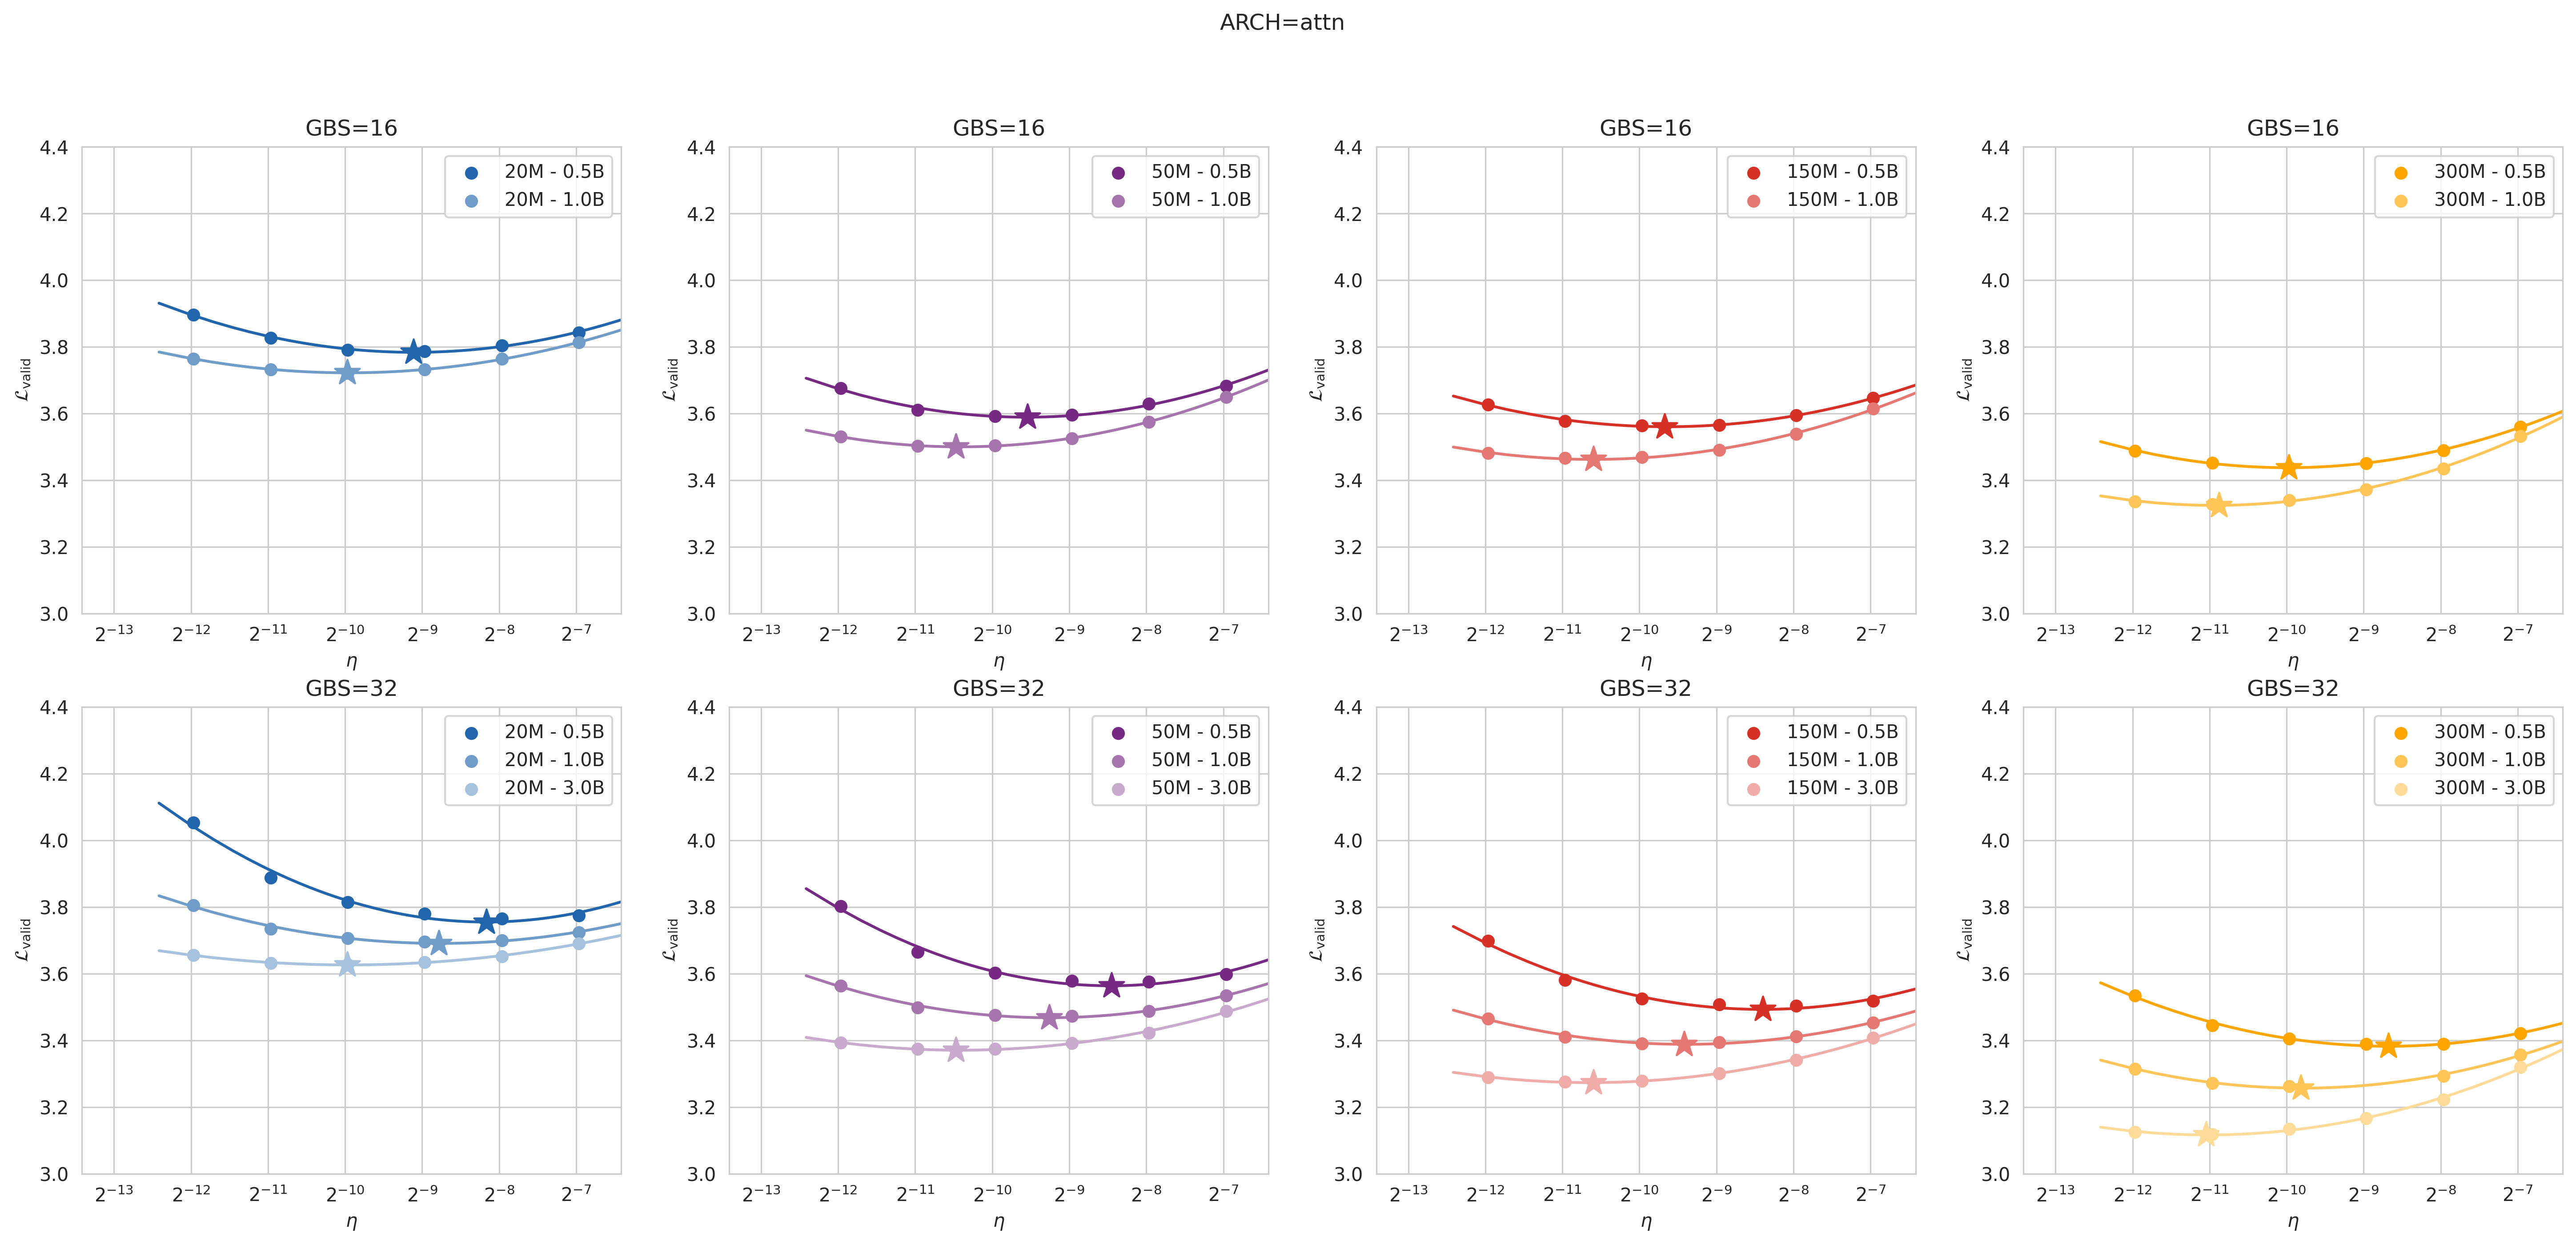
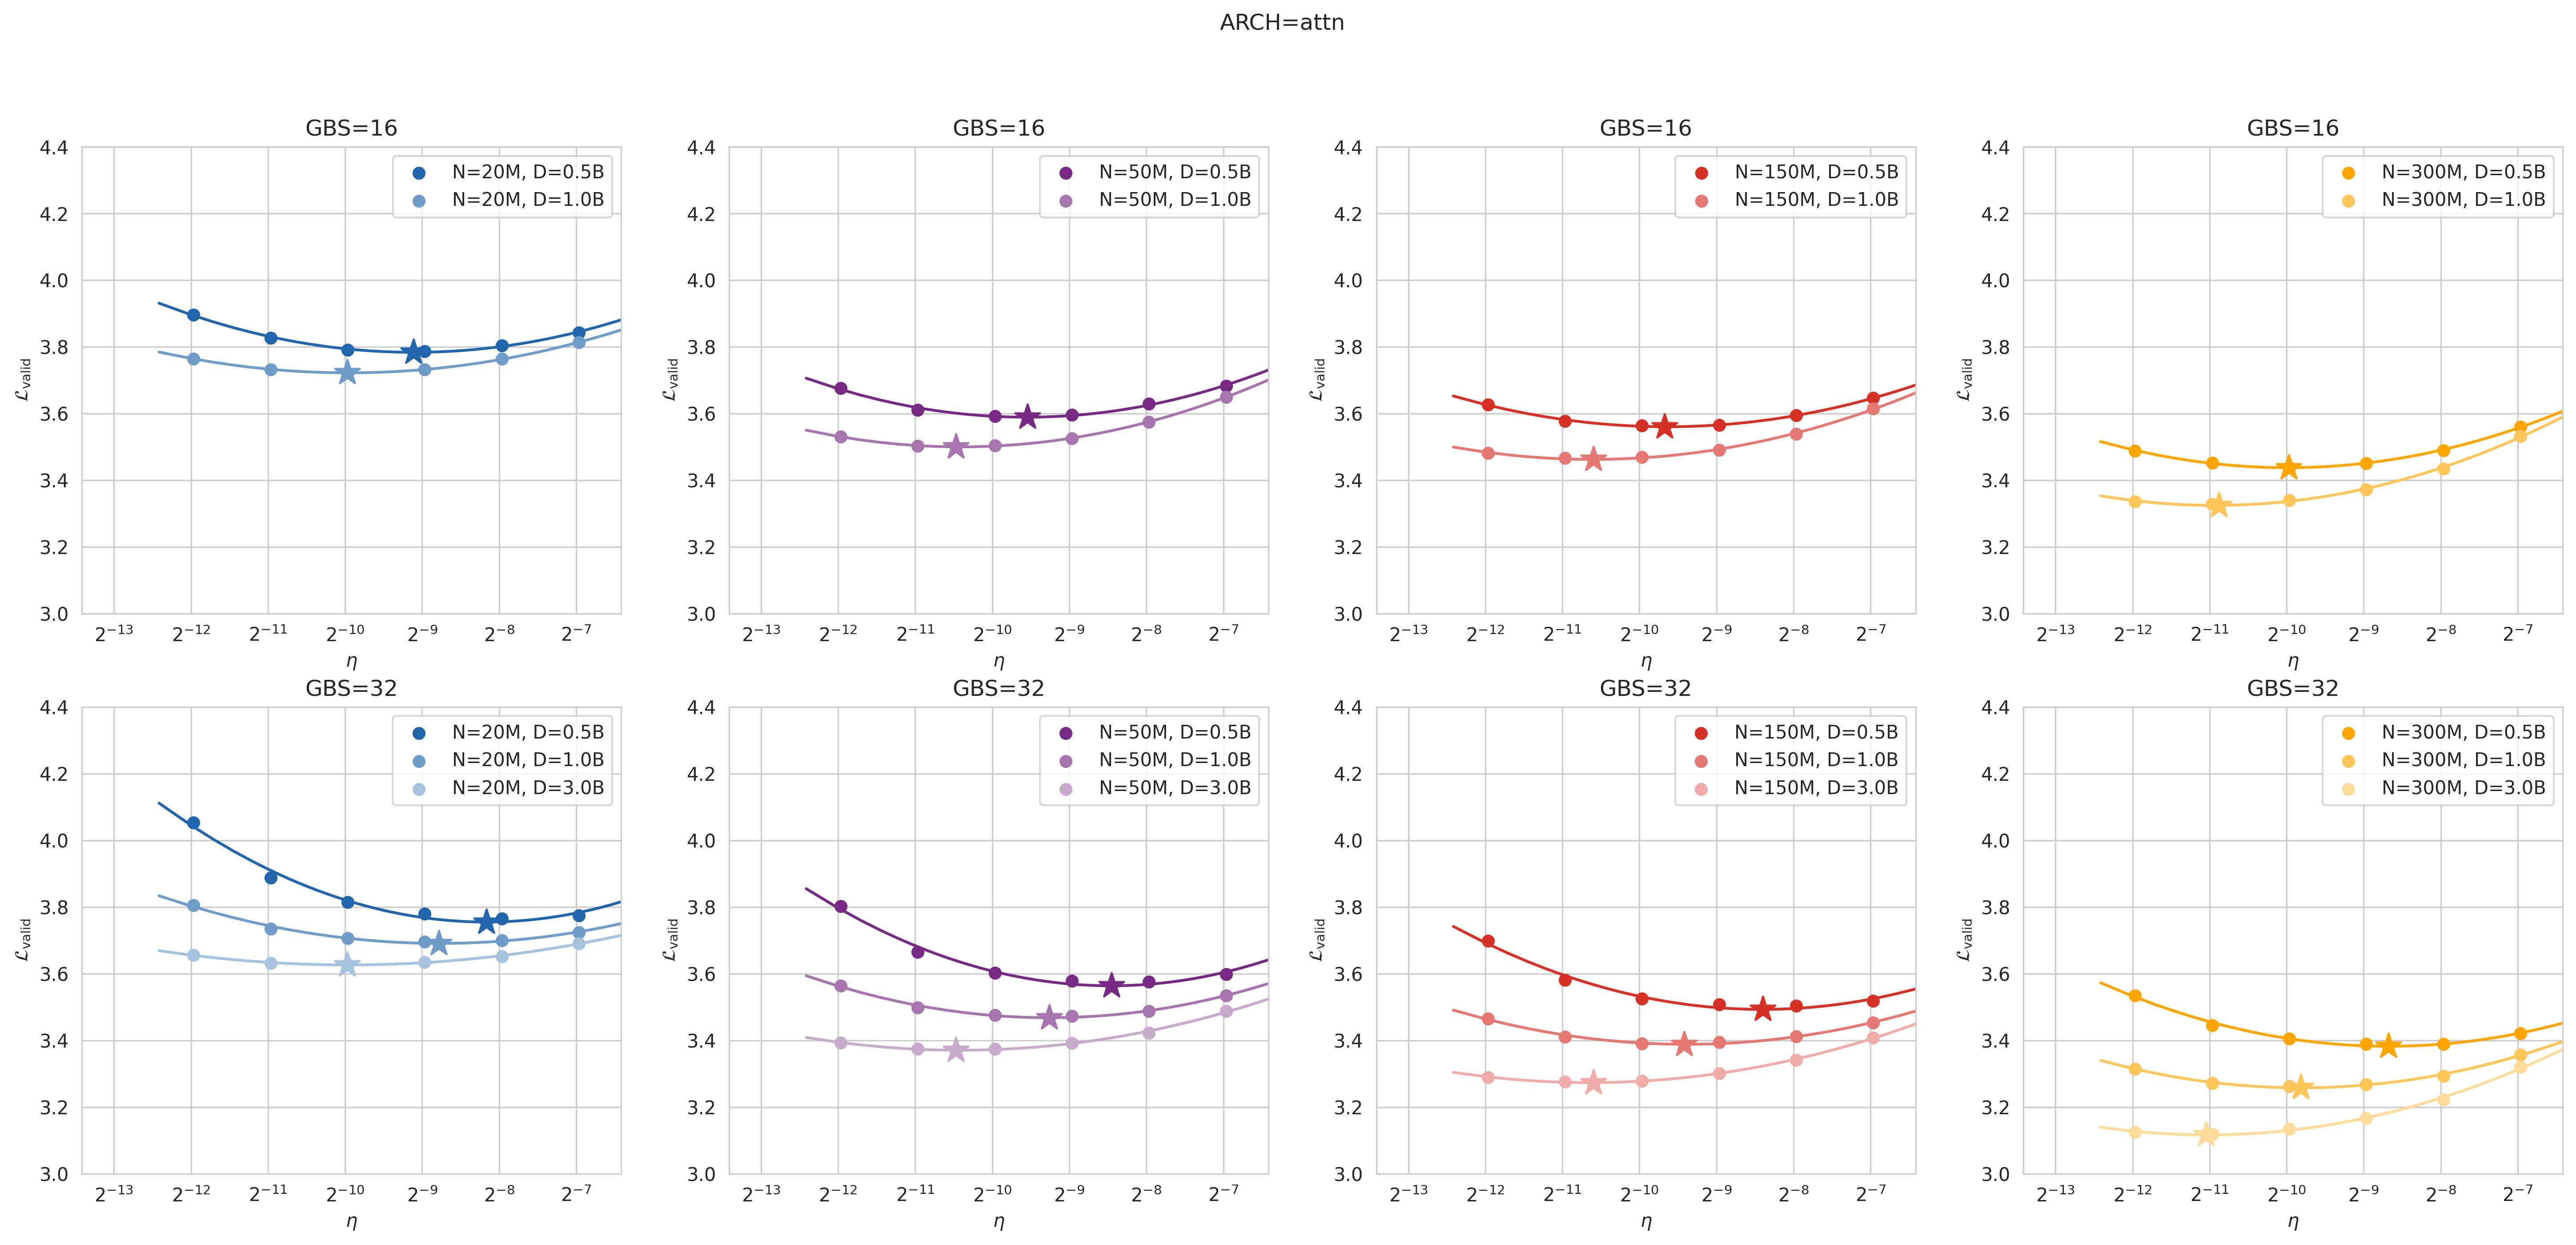
some laws

diff --git a/experiments/prelim_plot.py b/experiments/prelim_plot.py
@@ -83,7 +83,7 @@ def load_data(ns, ds, gbss, lrs, arch_id):
   return tensor
 
 
-def main(arch_id):
+def plot_lr_sweep(arch_id):
   t = load_data(ns=P, ds=Q, gbss=B, lrs=H, arch_id=arch_id)
   with open(f'/home/jsingh/projects/fastlm/execs/mts/{arch_id}_j17.pkl', 'wb') as f:
     pickle.dump(t, f)
@@ -104,7 +104,7 @@ def main(arch_id):
         if y._hdata.sum() > 0:
           yy = y._hdata[y._hdata > 0]
           lrx = np.array(t.stored_coords['lr'])[y._hdata > 0]
-          ax[ii, jj].scatter(lrx, yy, label=f'{n} - {d}', color=color, marker='o')
+          ax[ii, jj].scatter(lrx, yy, label=f'N={n}, D={d}', color=color, marker='o')
 
           X = np.log2(lrx)
           A = np.vstack([X**2, X, np.ones_like(X)]).T
@@ -142,6 +142,136 @@ def main(arch_id):
   plt.savefig(f'plots/{arch_id}.png', dpi=300, bbox_inches='tight')
   plt.cla()
   plt.clf()
+
+
+def plot_n_d_laws(arch_id):
+  t = load_data(ns=P, ds=Q, gbss=B, lrs=H, arch_id=arch_id)
+
+  fig, ax = plt.subplots(
+    1,
+    2,
+    figsize=(10, 6),  # scale this up — width per column ~5-6in, height per row ~5in
+    sharey=False,
+  )
+  n, gbs = '150M', 32
+
+  d_lrs = []
+  d_lvs = []
+
+  for d in Q:
+    color = lighten(BASE_COLORS[n], LIGHTNESS[d])
+    y = t.at(n=n, d=d, gbs=gbs)
+
+    if y._hdata.sum() > 0:
+      yy = y._hdata[y._hdata > 0]
+      lrx = np.array(t.stored_coords['lr'])[y._hdata > 0]
+      ax[0].scatter(lrx, yy, color=color, marker='o', label=d)
+
+      X = np.log2(lrx)
+      A = np.vstack([X**2, X, np.ones_like(X)]).T
+      a, b, c = np.linalg.lstsq(A, yy, rcond=None)[0]
+      x_fit = np.linspace(0.75 * (2 ** (-12)), 0.75 * (2 ** (-6)), 200)
+      logx = np.log2(x_fit)
+      y_fit = a * logx**2 + b * logx + c
+
+      ax[0].plot(x_fit, y_fit, color=color)
+
+      best_idx = np.argmin(y_fit)
+      best_lr = x_fit[best_idx]
+      best_loss = y_fit[best_idx]
+      ax[0].scatter(
+        best_lr,
+        best_loss,
+        zorder=10,
+        color=color,
+        marker='*',
+        s=200,
+        # edgecolor='black',
+      )
+
+      d_lrs.append(best_lr)
+      d_lvs.append(best_loss)
+
+  X = np.log2(d_lrs)
+  A = np.vstack([X, np.ones_like(X)]).T
+  a, b = np.linalg.lstsq(A, d_lvs, rcond=None)[0]
+  x_fit = np.linspace(0.75 * (2 ** (-12)), 0.75 * (2 ** (-6)), 200)
+  logx = np.log2(x_fit)
+  y_fit = a * logx + b
+
+  ax[0].plot(x_fit, y_fit, linestyle='--', color='black', label=rf'{round(a, 3)} * $\log x + $ {round(b, 3)}')
+  ax[0].set_title(f'N={n}, GBS={gbs}')
+  ax[0].set_xscale('log', base=2)
+  ax[0].set_xlim([0.75 * 2 ** (-13), 0.75 * 2 ** (-6)])
+  ax[0].set_ylim([3.0, 4.4])
+  ax[0].set_xlabel(r'$\eta$')
+  ax[0].set_ylabel(r'$\mathcal{L}_{\text{valid}}$')
+  ax[0].legend(loc='upper left', fontsize=11)
+
+  d = '3.0B'
+  n_lrs = []
+  n_lvs = []
+  ns = P[:3]
+  for n in ns:
+    color = BASE_COLORS[n]
+    color = np.array(to_rgb(color))
+    y = t.at(n=n, d=d, gbs=gbs)
+
+    if y._hdata.sum() > 0:
+      yy = y._hdata[y._hdata > 0]
+      lrx = np.array(t.stored_coords['lr'])[y._hdata > 0]
+      ax[1].scatter(lrx, yy, label=f'{n}', color=color, marker='o')
+
+      X = np.log2(lrx)
+      A = np.vstack([X**2, X, np.ones_like(X)]).T
+      a, b, c = np.linalg.lstsq(A, yy, rcond=None)[0]
+      x_fit = np.linspace(0.75 * (2 ** (-12)), 0.75 * (2 ** (-6)), 200)
+      logx = np.log2(x_fit)
+      y_fit = a * logx**2 + b * logx + c
+
+      ax[1].plot(x_fit, y_fit, color=color)
+
+      best_idx = np.argmin(y_fit)
+      best_lr = x_fit[best_idx]
+      best_loss = y_fit[best_idx]
+      ax[1].scatter(
+        best_lr,
+        best_loss,
+        zorder=10,
+        color=color,
+        marker='*',
+        s=200,
+        # edgecolor='black',
+      )
+
+      n_lrs.append(best_lr)
+      n_lvs.append(best_loss)
+
+  X = np.log2(n_lrs)
+  A = np.vstack([X, np.ones_like(X)]).T
+  a, b = np.linalg.lstsq(A, n_lvs, rcond=None)[0]
+  x_fit = np.linspace(0.75 * (2 ** (-12)), 0.75 * (2 ** (-6)), 200)
+  logx = np.log2(x_fit)
+  y_fit = a * logx + b
+
+  ax[1].plot(x_fit, y_fit, linestyle='--', color='black', label=rf'{round(a, 3)} * $\log x + $ {round(b, 3)}')
+  ax[1].set_title(f'D={d}, GBS={gbs}')
+  ax[1].set_xscale('log', base=2)
+  ax[1].set_xlim([0.75 * 2 ** (-13), 0.75 * 2 ** (-6)])
+  ax[1].set_ylim([3.0, 4.4])
+  ax[1].set_xlabel(r'$\eta$')
+  ax[1].set_ylabel(r'$\mathcal{L}_{\text{valid}}$')
+  ax[1].legend(loc='upper left', fontsize=11)
+
+  plt.suptitle(f'ARCH={arch_id}')
+  plt.savefig(f'plots/{arch_id}_2.png', dpi=300, bbox_inches='tight')
+  plt.cla()
+  plt.clf()
+
+
+def main(arch_id):
+  # plot_lr_sweep(arch_id)
+  plot_n_d_laws(arch_id)
 
 
 if __name__ == '__main__':